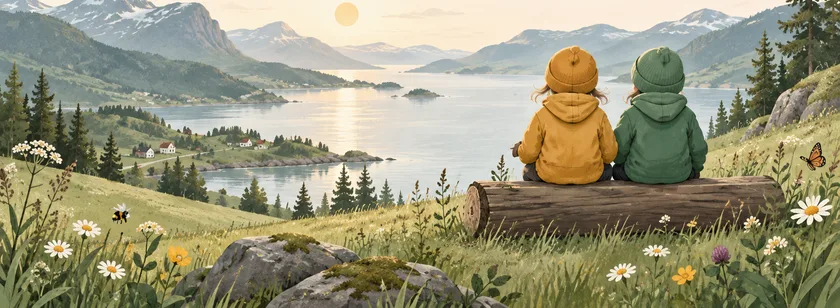
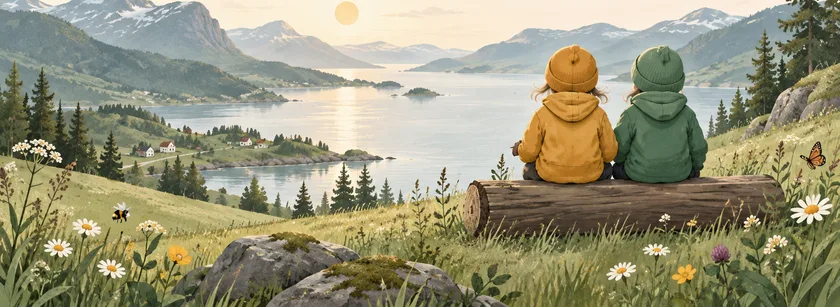
Rebuild the calendar artwork from the re-uploaded night original
The dark calendar illustration was replaced in attached_assets on 09-22,
but attached_assets/ is source material — nothing reads it at build or
runtime. What ships is the derived webp/jpg in
client/src/assets/illustrations/, last built on 09-21, so the site kept
serving the previous night scene. Rebuilt from the current original.

The crop moves down two pixels, from y=328 to y=330, and the declared
height with it. Both versions end their "Små mennesker, store dager"
handwriting at y=324, but the night sky's moon sits higher than the day
sky's sun and its disc runs to y=329, so the old cut left a bright sliver
of moon pinned to the band's top edge. 330 clears it and still keeps the
day sun whole, which starts at y=333 — so light and dark stay one
rectangle, as illustrations.ts says they are.

The other five night siblings are unchanged since they were built, so
their derivatives are still in sync.

Claude-Session: https://claude.ai/code/session_014SowpdBjeg95cj3JhnGFpu

diff --git a/client/src/components/site/illustrations.ts b/client/src/components/site/illustrations.ts
@@ -210,10 +210,14 @@ export const ILLUSTRATION_VALUES = set(
 /**
  * Two children on a log over the fjord at golden hour. Calendar hero.
  *
- * From calendar-children-fjord at (0, 328, 1672×613). The original writes
- * "Små mennesker, store dager" across its sky and the calendar hero already
+ * From calendar-children-fjord at (0, 330, 1672×611). Both versions write
+ * "Små mennesker, store dager" across the sky and the calendar hero already
  * prints that tagline in HTML directly above the band, so the crop starts
- * below the ink (which ends at y=324) and above the sun (y=333).
+ * below the ink, which ends at y=324 in both. The remaining two pixels are
+ * the night version's doing: its moon sits higher than the day version's sun
+ * and its disc ends at y=329, so a cut at 328 left a bright sliver of moon
+ * pinned to the top edge. 330 clears it, and still keeps the day sun whole
+ * (it starts at y=333).
  */
 export const ILLUSTRATION_CALENDAR = set(
   heroCalendar840,
@@ -223,7 +227,7 @@ export const ILLUSTRATION_CALENDAR = set(
   840,
   1400,
   1672,
-  613,
+  611,
   "58% 55%",
   {
     small: heroCalendarDark840,
